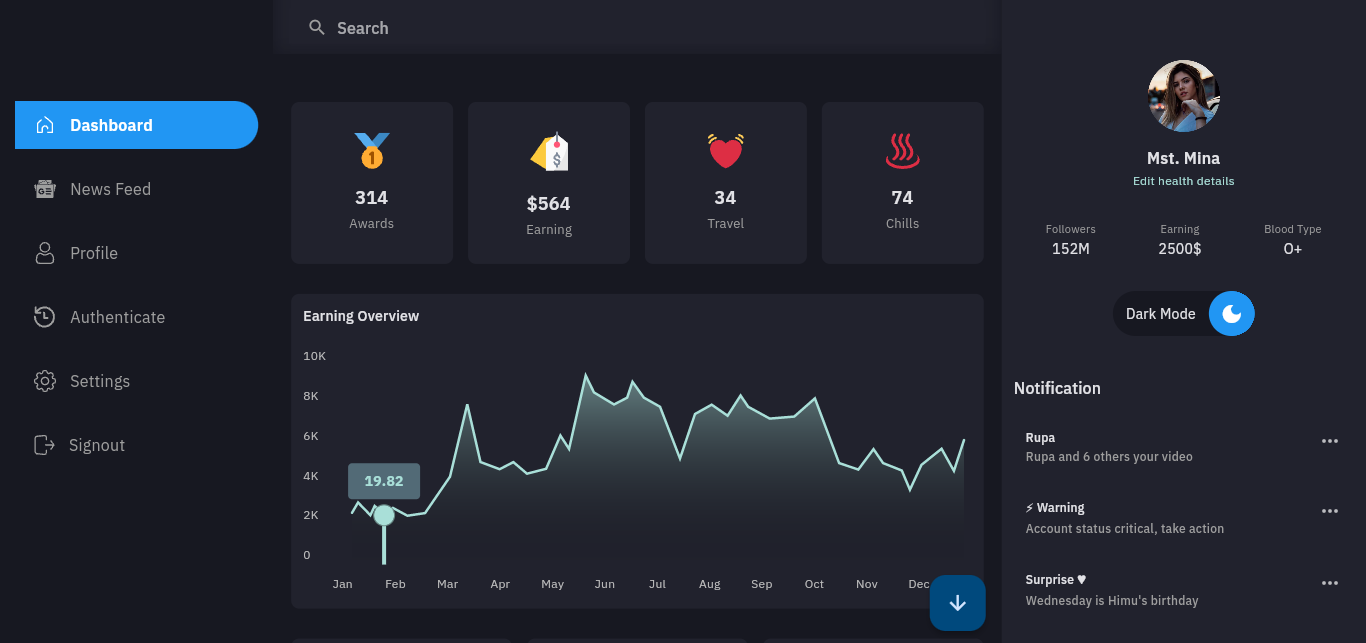
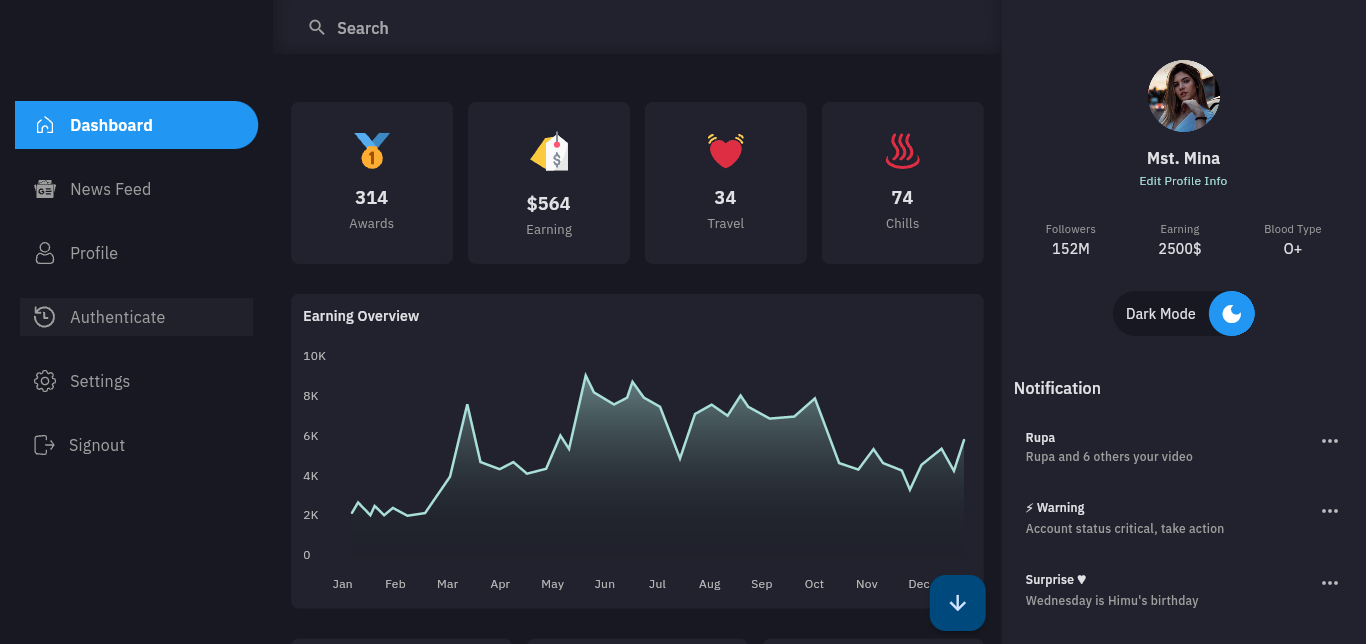
Responsive Dashborad

diff --git a/lib/views/feed/news_feed.dart b/lib/views/feed/news_feed.dart
@@ -21,15 +21,9 @@ class TimeLineState extends State<TimeLine> {
             systemOverlayStyle:
                 SystemUiOverlayStyle(statusBarBrightness: Brightness.dark),
             backgroundColor: Theme.of(context).cardColor,
-            elevation: 2,
-            title: Text("News Feed",
+            elevation: 0,
+            title: Text("My Feed",
                 style: MyText.title(context)!.copyWith(color: Colors.grey[80])),
-            leading: IconButton(
-              icon: Icon(Icons.menu, color: Colors.lightBlue[500]),
-              onPressed: () {
-                Navigator.pop(context);
-              },
-            ),
             actions: <Widget>[
               IconButton(
                 icon: Icon(Icons.search, color: Colors.lightBlue[500]),

diff --git a/lib/views/home/widgets/activity_details_card.dart b/lib/views/home/widgets/activity_details_card.dart
@@ -11,7 +11,7 @@ class ActivityDetailsCard extends StatelessWidget {
     ActivityModel(icon: 'assets/svg/medel.svg', value: "314", title: "Awards"),
     ActivityModel(icon: 'assets/svg/dollar.svg', value: "\$564", title: "Earning"),
     ActivityModel(icon: 'assets/svg/heart.svg', value: "34", title: "Travel"),
-    ActivityModel(icon: 'assets/svg/ho.svg', value: "74", title: "Chills"),
+    ActivityModel(icon: 'assets/svg/hot.svg', value: "74", title: "Chills"),
   ];
 
   @override

diff --git a/lib/widgets/profile/profile.dart b/lib/widgets/profile/profile.dart
@@ -45,7 +45,7 @@ class Profile extends ConsumerWidget {
                   height: 2,
                 ),
                 Text(
-                  "Edit health details",
+                  "Edit Profile Info",
                   style: TextStyle(
                     fontSize: 12,
                     color: Theme.of(context).primaryColor,
